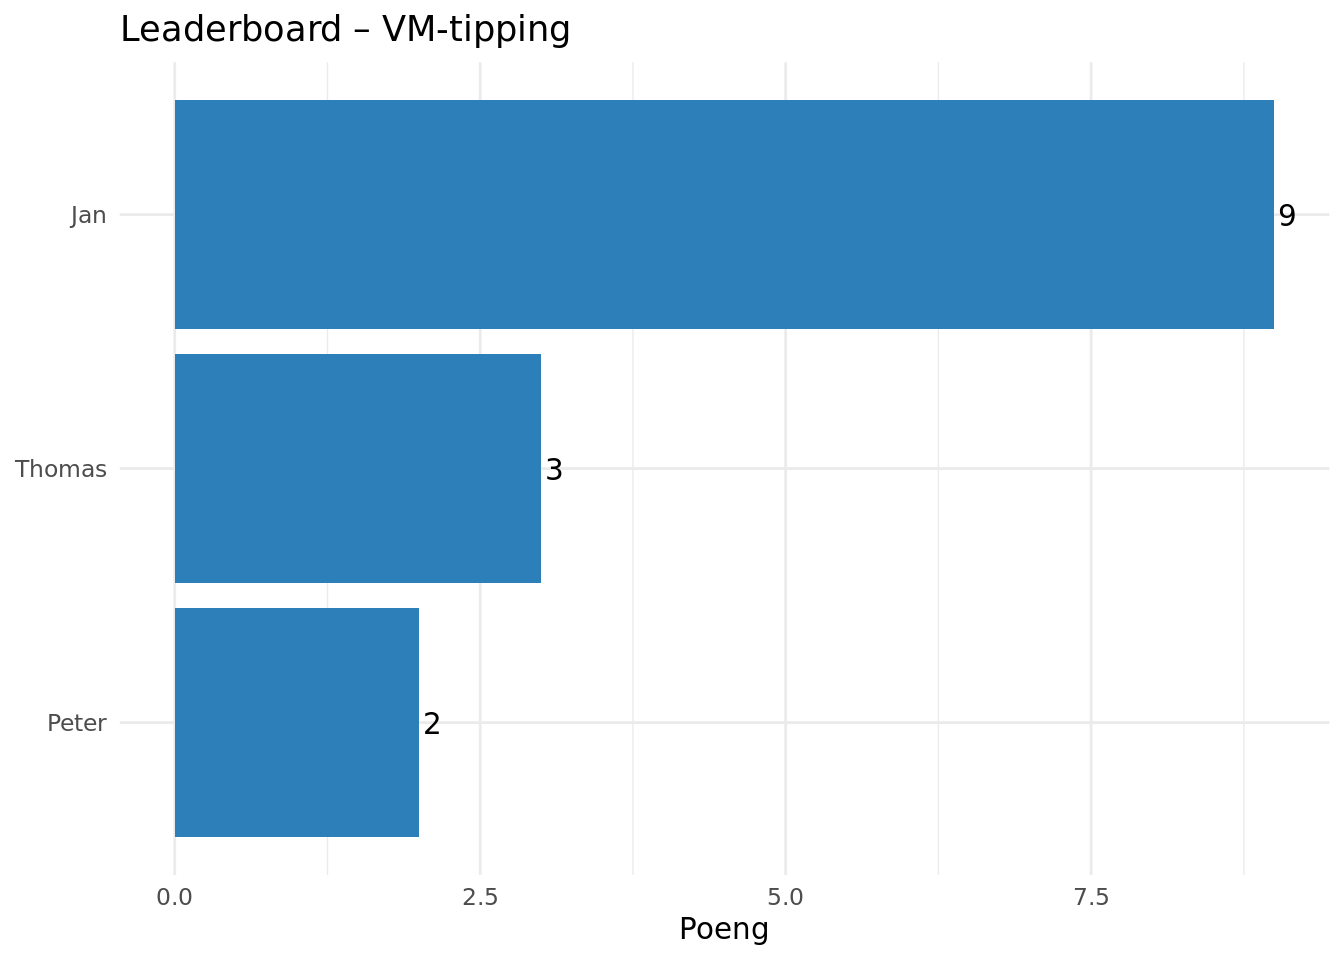
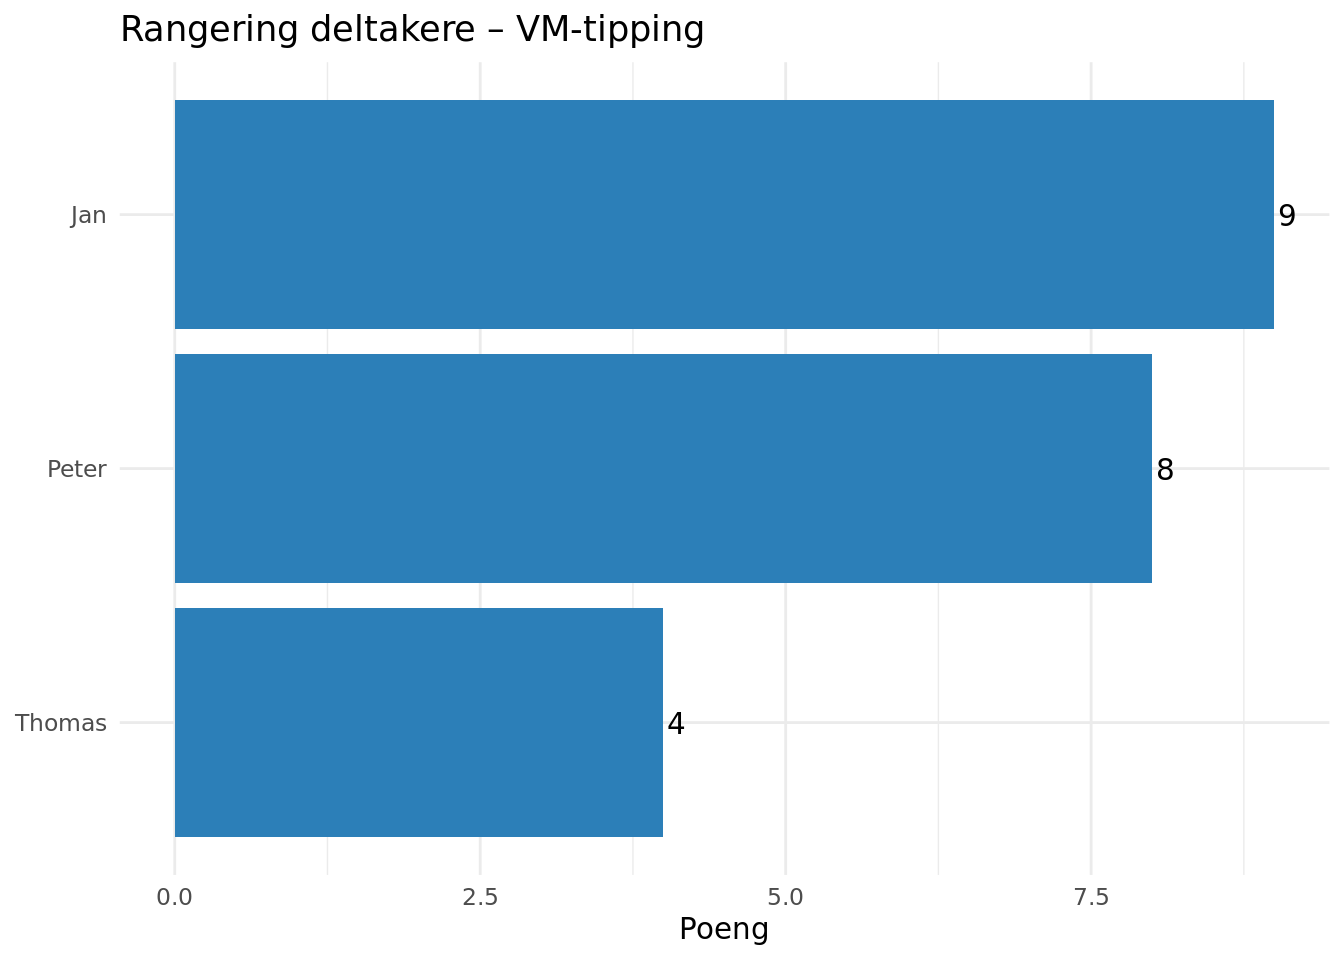
bilder og

diff --git a/docs/index.html b/docs/index.html
@@ -21,40 +21,6 @@ ul.task-list li input[type="checkbox"] {
   margin: 0 0.8em 0.2em -1em; /* quarto-specific, see https://github.com/quarto-dev/quarto-cli/issues/4556 */ 
   vertical-align: middle;
 }
-/* CSS for syntax highlighting */
-pre > code.sourceCode { white-space: pre; position: relative; }
-pre > code.sourceCode > span { line-height: 1.25; }
-pre > code.sourceCode > span:empty { height: 1.2em; }
-.sourceCode { overflow: visible; }
-code.sourceCode > span { color: inherit; text-decoration: inherit; }
-div.sourceCode { margin: 1em 0; }
-pre.sourceCode { margin: 0; }
-@media screen {
-div.sourceCode { overflow: auto; }
-}
-@media print {
-pre > code.sourceCode { white-space: pre-wrap; }
-pre > code.sourceCode > span { display: inline-block; text-indent: -5em; padding-left: 5em; }
-}
-pre.numberSource code
-  { counter-reset: source-line 0; }
-pre.numberSource code > span
-  { position: relative; left: -4em; counter-increment: source-line; }
-pre.numberSource code > span > a:first-child::before
-  { content: counter(source-line);
-    position: relative; left: -1em; text-align: right; vertical-align: baseline;
-    border: none; display: inline-block;
-    -webkit-touch-callout: none; -webkit-user-select: none;
-    -khtml-user-select: none; -moz-user-select: none;
-    -ms-user-select: none; user-select: none;
-    padding: 0 4px; width: 4em;
-  }
-pre.numberSource { margin-left: 3em;  padding-left: 4px; }
-div.sourceCode
-  {   }
-@media screen {
-pre > code.sourceCode > span > a:first-child::before { text-decoration: underline; }
-}
 </style>
 
 
@@ -82,6 +48,9 @@ pre > code.sourceCode > span > a:first-child::before { text-decoration: underlin
   <ul>
   <li><a href="#innledning" id="toc-innledning" class="nav-link active" data-scroll-target="#innledning"><span class="header-section-number">1</span> Innledning</a></li>
   <li><a href="#datagrunnlag" id="toc-datagrunnlag" class="nav-link" data-scroll-target="#datagrunnlag"><span class="header-section-number">2</span> Datagrunnlag</a></li>
+  <li><a href="#poeng-som-allerede-e-delt-ud" id="toc-poeng-som-allerede-e-delt-ud" class="nav-link" data-scroll-target="#poeng-som-allerede-e-delt-ud"><span class="header-section-number">3</span> Poeng som allerede e delt ud</a></li>
+  <li><a href="#poeng-som-gjenstår-å-spela-om" id="toc-poeng-som-gjenstår-å-spela-om" class="nav-link" data-scroll-target="#poeng-som-gjenstår-å-spela-om"><span class="header-section-number">4</span> Poeng som gjenstår å spela om</a></li>
+  <li><a href="#avansert-analyse" id="toc-avansert-analyse" class="nav-link" data-scroll-target="#avansert-analyse"><span class="header-section-number">5</span> Avansert analyse?</a></li>
   </ul>
 </nav>
 </div>
@@ -114,22 +83,18 @@ pre > code.sourceCode > span > a:first-child::before { text-decoration: underlin
 
 <section id="innledning" class="level2" data-number="1">
 <h2 data-number="1" class="anchored" data-anchor-id="innledning"><span class="header-section-number">1</span> Innledning</h2>
-<p>Denne rapporten viser resultatene fra VM-tuppekunkurransen. Poeng er beregnet ved å sammenligne hvert tips mot <strong>fasit-raden</strong> (<code>Navn = fasit</code>) i Excel-filen.</p>
-<hr>
+<p><img src="bilder/lagbilde.jpg" class="img-fluid"></p>
+<p>Denne rapporten viser resultatene fra VM-tuppekunkurransen. Det fins script for å tolka excel-tabellen.</p>
 </section>
 <section id="datagrunnlag" class="level2" data-number="2">
 <h2 data-number="2" class="anchored" data-anchor-id="datagrunnlag"><span class="header-section-number">2</span> Datagrunnlag</h2>
+<p>Her komme det sylskarpe analyser av svarene som e sendt inn</p>
+</section>
+<section id="poeng-som-allerede-e-delt-ud" class="level2" data-number="3">
+<h2 data-number="3" class="anchored" data-anchor-id="poeng-som-allerede-e-delt-ud"><span class="header-section-number">3</span> Poeng som allerede e delt ud</h2>
+<p><img src="bilder/ebh.jpg" class="img-fluid"></p>
+<p>Her komme info om poeng som allerede e delt ud. Typisk itte innledande runder.</p>
 <div class="cell">
-<div class="sourceCode cell-code" id="cb1"><pre class="sourceCode r code-with-copy"><code class="sourceCode r"><span id="cb1-1"><a href="#cb1-1" aria-hidden="true" tabindex="-1"></a><span class="fu">ggplot</span>(leaderboard, <span class="fu">aes</span>(<span class="at">x =</span> <span class="fu">reorder</span>(Navn, Total), <span class="at">y =</span> Total)) <span class="sc">+</span></span>
-<span id="cb1-2"><a href="#cb1-2" aria-hidden="true" tabindex="-1"></a>  <span class="fu">geom_col</span>(<span class="at">fill =</span> <span class="st">"#2C7FB8"</span>) <span class="sc">+</span></span>
-<span id="cb1-3"><a href="#cb1-3" aria-hidden="true" tabindex="-1"></a>  <span class="fu">coord_flip</span>() <span class="sc">+</span></span>
-<span id="cb1-4"><a href="#cb1-4" aria-hidden="true" tabindex="-1"></a>  <span class="fu">labs</span>(</span>
-<span id="cb1-5"><a href="#cb1-5" aria-hidden="true" tabindex="-1"></a>    <span class="at">title =</span> <span class="st">"Leaderboard – VM-tipping"</span>,</span>
-<span id="cb1-6"><a href="#cb1-6" aria-hidden="true" tabindex="-1"></a>    <span class="at">x =</span> <span class="cn">NULL</span>,</span>
-<span id="cb1-7"><a href="#cb1-7" aria-hidden="true" tabindex="-1"></a>    <span class="at">y =</span> <span class="st">"Poeng"</span></span>
-<span id="cb1-8"><a href="#cb1-8" aria-hidden="true" tabindex="-1"></a>  ) <span class="sc">+</span></span>
-<span id="cb1-9"><a href="#cb1-9" aria-hidden="true" tabindex="-1"></a>  <span class="fu">geom_text</span>(<span class="fu">aes</span>(<span class="at">label =</span> Total), <span class="at">hjust =</span> <span class="sc">-</span><span class="fl">0.2</span>) <span class="sc">+</span></span>
-<span id="cb1-10"><a href="#cb1-10" aria-hidden="true" tabindex="-1"></a>  <span class="fu">theme_minimal</span>()</span></code><button title="Copy to Clipboard" class="code-copy-button"><i class="bi"></i></button></pre></div>
 <div class="cell-output-display">
 <div>
 <figure class="figure">
@@ -137,10 +102,15 @@ pre > code.sourceCode > span > a:first-child::before { text-decoration: underlin
 </figure>
 </div>
 </div>
-<div class="sourceCode cell-code" id="cb2"><pre class="sourceCode r code-with-copy"><code class="sourceCode r"><span id="cb2-1"><a href="#cb2-1" aria-hidden="true" tabindex="-1"></a><span class="co"># </span></span>
-<span id="cb2-2"><a href="#cb2-2" aria-hidden="true" tabindex="-1"></a><span class="co"># poeng_df %&gt;%</span></span>
-<span id="cb2-3"><a href="#cb2-3" aria-hidden="true" tabindex="-1"></a><span class="co">#   select(Navn, ends_with("_poeng"))</span></span></code><button title="Copy to Clipboard" class="code-copy-button"><i class="bi"></i></button></pre></div>
 </div>
+</section>
+<section id="poeng-som-gjenstår-å-spela-om" class="level2" data-number="4">
+<h2 data-number="4" class="anchored" data-anchor-id="poeng-som-gjenstår-å-spela-om"><span class="header-section-number">4</span> Poeng som gjenstår å spela om</h2>
+<p>Her komme info om kordan folk har svart på de spørsmålene som ennå ikkje e delt ud.</p>
+</section>
+<section id="avansert-analyse" class="level2" data-number="5">
+<h2 data-number="5" class="anchored" data-anchor-id="avansert-analyse"><span class="header-section-number">5</span> Avansert analyse?</h2>
+<p>F.eks. ka resultat vil gi størst endring i resultattabellen?</p>
 </section>
 
 </main>
